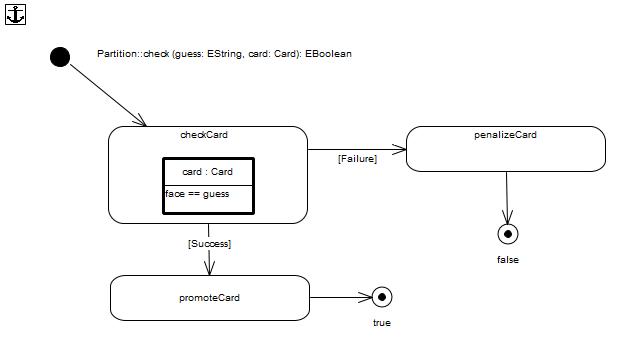
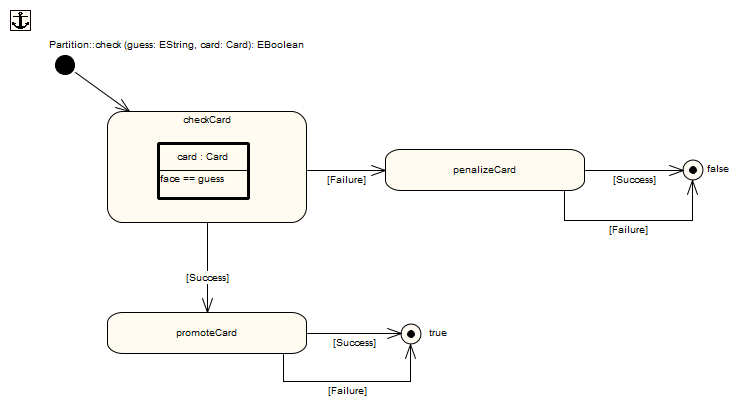
Part 3 reshaped to version 1.7

diff --git a/Handbook/org.moflon.doc.handbook.03_storyDiagrams/01_LeitnersBoxReviewed/storyDiagrams_review.tex b/Handbook/org.moflon.doc.handbook.03_storyDiagrams/01_LeitnersBoxReviewed/storyDiagrams_review.tex
@@ -18,7 +18,7 @@ For a more detailed overview of the box and our goals, we recommend you read the
 
 \begin{itemize}
 
-\item[$\blacktriangleright$] To get started in Eclipse, press the \texttt{new} button and navigate to ``Examples/eMoflon Handbook Examples/''
+\item[$\blacktriangleright$] To get started in Eclipse, press the \texttt{New} button and navigate to ``Examples/eMoflon Handbook Examples/''
 (Fig.~\ref{eclipse:downloadWizard}).
 
 \begin{figure}[htbp]
@@ -35,35 +35,38 @@ you to experiment with your metamodel.
 \newpage
 
 \vspace*{0.5cm}
-
-\item[$\blacktriangleright$] If your package explorer does not resemble ours in Fig.~\ref{eclipse:workingSets} with at least two distinct nodes, select the
-small, downward facing arrow in the corner of the package explorer. Choose ``Working Sets'' as your ``Top Level Elements.'' We use these to structure the
-workspace in Eclipse.
-
-\vspace{0.75cm}
-
+%
+%\item[$\blacktriangleright$] If your package explorer does not resemble ours in Fig.~\ref{eclipse:workingSets} with at least two distinct nodes, select the
+%small, downward facing arrow in the corner of the package explorer. Choose ``Working Sets'' as your ``Top Level Elements.'' We use these to structure the
+%workspace in Eclipse.
+%
+%\vspace{0.75cm}
+%
 \end{itemize}
-
-\begin{figure}[htbp]
-	\centering
-  \includegraphics[width=0.9\textwidth]{eclipse_workingSets}
-	\caption{Configuring your Package Explorer}
-	\label{eclipse:workingSets}
-\end{figure}
-
-The ``MyWorkingSet" node contains \texttt{Learn\-ing\-Box\-Lang\-uage}, which in turn contains all the code generated from your metamodel. The metamodel itself
-is found in \texttt{Leit\-ners\-Learn\-ing\-Box} under ``Specifications.'' The visual metamodel is a single \texttt{.eap} file, while the textual metamodel is
-contained within an explicit folder structure, starting with ``/MOSL.'' Finally, the GUI is placed in the ``Other Projects'' node.
-
-Each of these projects are not placed in the same working set as they have different \emph{nature}s, or project types. \texttt{Learning\-Box\-Language} is a
-\emph{repository project}, the Eclipse classification of a normal Java project,\footnote{For details on the project setup, review Part I, Section 4}
-while \texttt{LeitnersLearningBox} is a metamodel project.
+%
+%\begin{figure}[htbp]
+%	\centering
+%  \includegraphics[width=0.9\textwidth]{eclipse_workingSets}
+%	\caption{Configuring your Package Explorer}
+%	\label{eclipse:workingSets}
+%\end{figure}
+%
+%The ``MyWorkingSet" node contains \texttt{Learn\-ing\-Box\-Lang\-uage}, which in turn contains all the code generated from your metamodel. The metamodel itself
+%is found in \texttt{Leit\-ners\-Learn\-ing\-Box} under ``Specifications.'' The visual metamodel is a single \texttt{.eap} file, while the textual metamodel is
+%contained within an explicit folder structure, starting with ``/MOSL.'' Finally, the GUI is placed in the ``Other Projects'' node.
+%
+%Each of these projects are not placed in the same working set as they have different \emph{nature}s, or project types. \texttt{Learning\-Box\-Language} is a
+%\emph{repository project}, the Eclipse classification of a normal Java project,\footnote{For details on the project setup, review Part I, Section 4}
+%while \texttt{LeitnersLearningBox} is a metamodel project.
 
 \begin{itemize}
+	
+\itemWithRightTriangle In order to start working with the cheat package, you have to generate code by (i) opening the \texttt{.eap} file in \texttt{LeitnersLearningBox}, (ii) exporting it using Enterprise Architect, (iii) refreshing the project containing the \texttt{.eap} and (iv) rebuilding the  \texttt{LearningBoxLanguage} project. For more details on the code generation process, refer to Part I, Section 2.
 
 \item[$\blacktriangleright$] Inspect the files in both projects until you feel comfortable with what you'll be working with. In particular, look at the files
-found under ``gen." Each Java file has a corresponding \texttt{.impl} file, where all generated method implementations will be placed.\footnote{For
-more details on code generation, refer to Part I, Section 5} 
+found under ``gen." Each Java file has a corresponding \texttt{.impl} file, where all generated method implementations will be placed.
+%\footnote{For
+%more details on code generation, refer to Part I, Section 5} 
 
 \item[$\blacktriangleright$] Be sure to also review the Ecore model in ``LearningBoxLanguage/model/'' and the dynamic model found in ``instances.'' While
 you can make and customize your own instances,\footnote{To learn how to make your own instance models, review Part II, Section 4} we have included a small

diff --git a/Handbook/org.moflon.doc.handbook.03_storyDiagrams/11_fastCards/visFastCard.tex b/Handbook/org.moflon.doc.handbook.03_storyDiagrams/11_fastCards/visFastCard.tex
@@ -5,7 +5,7 @@
 
 \begin{itemize}
 
-\item[$\blacktriangleright$] To introduce fast cards into your learning box, return to the metamodel diagram and create a new \texttt{eclass},
+\item[$\blacktriangleright$] To introduce fast cards into your learning box, return to the metamodel diagram and create a new \texttt{EClass},
 \texttt{FastCard}. Quick link to \texttt{Card} and choose \texttt{Create Inheritance} from the context menu. We only want to check the dynamic type of a
 tested card at runtime, which means we don't need to override anything. Therefore, when the \texttt{Overrides \& Implementations} dialogue appears, make sure
 nothing is selected (Fig.~\ref{ea:dialogue_override}). Your metamodel should then resemble Fig.~\ref{ea:metamodel_FastCard}.
@@ -74,8 +74,9 @@ parameter \emph{and} has already been used in \texttt{checkIfGuessIsCorrect}. We
 \texttt{Object\-Vari\-able\-Ex\-pres\-sion}, with \texttt{card} as the target. Note that a binding could also use a \emph{MethodCallExpression} to invoke a
 method whose return value would be the bound value. This is very useful as it allows invoking helper methods directly in patterns.
 
-\item[$\blacktriangleright$] To finalize the SDM, extract the \texttt{promoteFastCard} story pattern and build the pattern according to
-Fig.~\ref{ea:promoteFastCardPattern}. Compare this pattern to Figs.~\ref{ea:sdm_check_complete_activity_node} and \ref{ea:sdm_check_complete_penalize}, the
+\item[$\blacktriangleright$] To finalize the SDM, (i) extract the \texttt{promoteFastCard} story pattern and build the pattern according to
+Fig.~\ref{ea:promoteFastCardPattern} and (ii) create the parallel \texttt{Success} and \texttt{Failure} edges from this activity to the stop node returning 
+\texttt{true} for the same reason as in \texttt{check} earlier. Compare the pattern in Fig.~\ref{ea:promoteFastCardPattern} to Figs.~\ref{ea:sdm_check_complete_activity_node} and \ref{ea:sdm_check_complete_penalize}, the
 original promotion and penalizing card movements. As you can see, they're very similar, except \texttt{fastCard} is transferred from the current partition
 (\texttt{this}) immediately to the last partition in \texttt{box}, identified as having no next \texttt{Partition} with an appropriate NAC.
 Note that a second NAC is used to handle the case where \texttt{this} would be the next \texttt{Partition}, which is also not want we want.

diff --git a/Handbook/org.moflon.doc.handbook.03_storyDiagrams/src/storyDiagrams_intro.tex b/Handbook/org.moflon.doc.handbook.03_storyDiagrams/src/storyDiagrams_intro.tex
@@ -6,8 +6,12 @@
 
 Welcome to Part III, an introduction to unidirectional model transformations with programmed graph transformations via Story Driven Modelling (SDM).
 SDMs are used to describe behaviour, so the plan is to implement the methods declared in Part II with story diagrams. In other words,
-this is where you'll complete your metamodel's dynamic semantics! Don't let the sheer size of this part frighten you off. We have included thorough
-explanations (with an ample number of figures) to ensure the concepts are crystal clear.
+this is where you'll complete your metamodel's dynamic semantics! Don't let the 
+%sheer 
+size of this part frighten you off. We have included thorough
+explanations (with an ample number of figures) to ensure the concepts are 
+%crystal 
+clear.
 
 In Part II, we learnt that we can implement methods in a fairly straightforward manner with injections and Java, so why bother with SDMs?
 
@@ -17,6 +21,8 @@ Textually, SDMs employ a simple Java-like syntax for imperative control flow, an
 constructs common in many functional programming languages
 
 If you're just joining us, read the next section for a brief overview of our running example so far, and how to download some files that will help you get
-started right away. Alternatively, if you've just completed Part II, click the link below to continue right away with your constructed learning box metamodel.
+started right away. Alternatively, if you've just completed Part II, click the link below to continue right away with your constructed learning box metamodel. Please note that the handbook has been tested only with the prepared cheat packages provided in eMoflon.
+
+%\disclaimerForDownloadedProjects
 
 \begin{center}\texttt{$\triangleright$ \hyperlink{explanation}{Continue from Part II\ldots}}\end{center}

diff --git a/Handbook/org.moflon.doc.handbook.03_storyDiagrams/04_checkCard/visCheckCard.tex b/Handbook/org.moflon.doc.handbook.03_storyDiagrams/04_checkCard/visCheckCard.tex
@@ -237,8 +237,11 @@ attempt to guarantee type safety} and should be avoided when possible.
 
 \item[$\blacktriangleright$] To implement a literal, double click the stop node stemming from  \texttt{promoteCard}, and change the expression type from
 \texttt{void} to \texttt{LiteralEx\-pression} (Fig.~\ref{ea:sdm_check_literal_exp}). Change the value in the window below to \texttt{true}. Press \texttt{OK},
-then finish the SDM by returning \texttt{false} after \texttt{penalizeCard} in the same manner. Your diagram should now resemble
-Fig.~\ref{ea:sdm_check_finish}.
+then finish the SDM by returning \texttt{false} after \texttt{penalizeCard} in the same manner. Note that it is also possible that \texttt{promoteCard} or 
+\texttt{penalizeCard} fails\footnote{For example, if the actual partition doesn't have a ``proper'' successor or predecessor -- in this case, unfortunately, we can't 
+give a real reward or penalty for the guess, which means that we still return \texttt{true} or \texttt{false}.}. This is handled by placing parallel \texttt{Success} 
+and \texttt{Failure} edges after the \texttt{promoteCard} and \texttt{penalizeCard} activities. After doing these, your diagram should 
+resemble Fig.~\ref{ea:sdm_check_finish}.
 
 \begin{figure}[htbp]
 \begin{center}
@@ -250,7 +253,7 @@ Fig.~\ref{ea:sdm_check_finish}.
 
 \begin{figure}[htbp]
 \begin{center}
-  \includegraphics[width=\textwidth]{ea_sdmCheckComplete}
+  \includegraphics[width=.9\textwidth]{ea_sdmCheckComplete}
   \caption{Complete SDM for \texttt{Partition::check}}
   \label{ea:sdm_check_finish}
 \end{center}

diff --git a/Handbook/org.moflon.doc.handbook.03_storyDiagrams/03_removeCard/visRemoveCard.tex b/Handbook/org.moflon.doc.handbook.03_storyDiagrams/03_removeCard/visRemoveCard.tex
@@ -17,7 +17,7 @@ following: (1) Click \emph{once} on \texttt{Partition} to select it, then (2) Cl
 \end{center}
 \end{figure}
  
-\item[$\blacktriangleright$] If you did everything right, a new \emph{activity diagram} should be created and opened in a new tab with a cute anchor in
+\item[$\blacktriangleright$] If you did everything right (and answered the question which popped up about creating a new SDM diagram with Yes), a new \emph{activity diagram} should be created and opened in a new tab with a cute anchor in
 the corner, and a \emph{start node} labelled with the signature of the method (Fig.~\ref{ea:sdm_skeleton}).  
 
 \begin{figure}[htp]
@@ -199,7 +199,7 @@ value is now indicated below the stop node.
 
 \item[$\blacktriangleright$]  Don't forget to save your files, validate and export your pattern to the Eclipse workspace,\footnote{Go to
 ``\texttt{Extensions}" and select \texttt{Add-In Windows} to activate eMoflon's console. If you're unsure how to validate, export, or use this window, review
-Part II, Section 3.} then build your metamodel's code from the package explorer.
+Part I, Section 2.1.} then build your metamodel's code from the package explorer.
 
 \newpage
 

diff --git a/Handbook/org.moflon.doc.handbook.03_storyDiagrams/02_transformationsExplained/transformationsExplained.tex b/Handbook/org.moflon.doc.handbook.03_storyDiagrams/02_transformationsExplained/transformationsExplained.tex
@@ -26,10 +26,10 @@ A rule, $r: (L,R)$, can be \emph{applied} to a model (a typed graph) $G$ by:
 \begin{enumerate}
   \item \emph{Finding} an occurrence of the precondition $L$ in $G$ via a \emph{match}, $m$
   
-  \item \emph{Cutting} out or $Destroying (L\setminus R)$ i.e., the elements that are present in the precondition but not in the postcondition are deleted
+  \item \emph{Cutting} out or $Destroying$ $(L\setminus R)$, i.e., the elements that are present in the precondition but not in the postcondition are deleted
   from $G$ to form  $(G\setminus Destroy)$
   
-  \item \emph{Pasting} or $Creating (R\setminus L)$ i.e., new elements that are present in the postcondition but not in the precondition and are to be created
+  \item \emph{Pasting} or $Creating$ $(R\setminus L)$, i.e., new elements that are present in the postcondition but not in the precondition and are to be created
   in the hole left in $(G\setminus Destroy)$ to form a new graph, $H = (G\setminus Destroy) \cup Create$ (Fig.\ref{fig:rule_application}). 
   
   \end{enumerate}

diff --git a/Handbook/org.moflon.doc.handbook.00_common/src/common_preamble.tex b/Handbook/org.moflon.doc.handbook.00_common/src/common_preamble.tex
@@ -26,7 +26,7 @@
 \newcommand{\eMoflonContact}{\href{mailto:contact@emoflon.org}{contact@emoflon.org}}
 \newcommand{\eMoflonWebsite}{\href{www.emoflon.org}{www.emoflon.org}}
 \newcommand{\disclaimerForTextualSyntax}{\fbox{\parbox{\textwidth}{
-Please note that the textual syntax is not as thoroughly tested as the visual syntax because most of our projects are built witht the visual syntax.
+Please note that the textual syntax is not as thoroughly tested as the visual syntax because most of our projects are built with the visual syntax.
 This means: Whenever something goes wrong even though you are sure to have followed the instructions precisely, do not hesitate to contact us via \eMoflonContact.
 }}}
 \newcommand{\todo}[1]{} %\textbf{TODO: #1}}

diff --git a/Handbook/org.moflon.doc.handbook.03_storyDiagrams/11_fastCards/fastCardsSplash.tex b/Handbook/org.moflon.doc.handbook.03_storyDiagrams/11_fastCards/fastCardsSplash.tex
@@ -10,7 +10,7 @@ again in successive partitions. Such \emph{fast} cards should somehow be marked 
 it should be immediately moved to the final partition in the box. This way, the card is practiced once, and only tested once more before finally being ejected from the
 box.
 
-It makes sense for a \texttt{FastCard} to inherit from \texttt{Card}, so we'll extend the current object in our metamodel by a new eclass for fast cards, 
+It makes sense for a \texttt{FastCard} to inherit from \texttt{Card}, so we'll extend the current object in our metamodel by a new \texttt{EClass} for fast cards, 
 depicted below with a marker to show it behaves differently (Fig.~\ref{fig:goal_fastCard}).
 
 \begin{figure}[htbp]

diff --git a/Handbook/org.moflon.doc.handbook.03_storyDiagrams/03_removeCard/removeCardSplash.tex b/Handbook/org.moflon.doc.handbook.03_storyDiagrams/03_removeCard/removeCardSplash.tex
@@ -32,7 +32,7 @@ Before we implement this change as a story diagram, let's remove the old injecti
 
 \item[$\blacktriangleright$] Now right-click on \texttt{LeitnersLearningBox} and go to ``eMoflon/Clean(and Build)" 
 
-\item[$\blacktriangleright$] You'll be able to see the changes in \texttt{PartitionImpl.java}, found under ``MyWorkingSet.'' The \texttt{removeCard}
+\item[$\blacktriangleright$] You'll be able to see the changes in \texttt{PartitionImpl.java}. The \texttt{removeCard}
 declaration should now be empty and look identical to the other unimplemented methods.
 
 \end{itemize}

diff --git a/Handbook/org.moflon.doc.handbook.03_storyDiagrams/03_removeCard/texRemoveCard.tex b/Handbook/org.moflon.doc.handbook.03_storyDiagrams/03_removeCard/texRemoveCard.tex
@@ -3,6 +3,8 @@
 \subsection{Implementing removeCard}
 \texHeader
 
+\disclaimerForTextualSyntax
+
 \begin{itemize}
 
 \itemWithRightTriangle Open \texttt{Partition.eclass}, go to the
@@ -57,7 +59,7 @@ EClass. \texttt{Partition} will eventually contain a folder for each method that
 within such a scope, operations such as `delete/create/find' this outgoing reference. Remember - the main goal of SDMs is to focus here is not on \emph{how},
 but \emph{what}.
 
-\newpage
+%\newpage
 
 \begin{figure}[htp]
 \begin{center}
